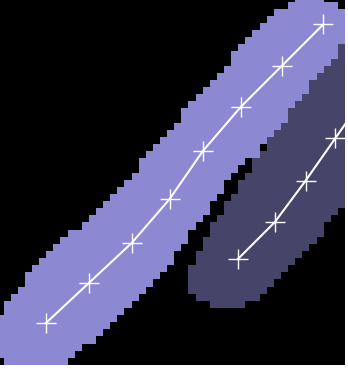
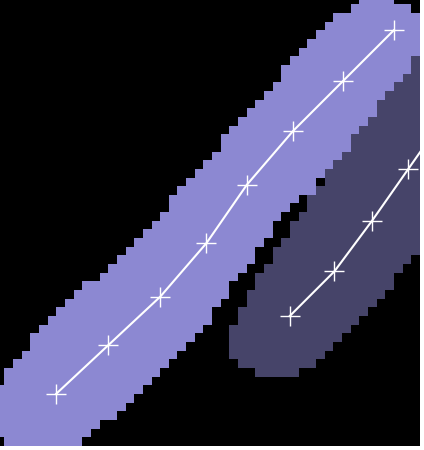
also save as pdf; update figures; adapt to new extraction method

diff --git a/plots/position_extraction_algorithm.py b/plots/position_extraction_algorithm.py
@@ -83,13 +83,18 @@ if __name__ == "__main__":
 
     fig.tight_layout()
     fig.savefig(
+        "docs/source/_static/fitting-methods/algorithm/mask-zoom.pdf",
+        bbox_inches="tight",
+        pad_inches=0,
+    )
+    fig.savefig(
         "docs/source/_static/fitting-methods/algorithm/mask-zoom.png",
         bbox_inches="tight",
         pad_inches=0,
     )
     plt.close(fig)
 
-    pos, _, _ = crm.extract_positions(mask)
+    pos = crm.extract_positions(mask)[0]
     submask = np.copy(mask[xmin:xmax, ymin:ymax, :])
 
     fig, ax = plt.subplots()
@@ -116,6 +121,11 @@ if __name__ == "__main__":
         ax.plot(q1 + dx / 2, q2 + dy / 2, color="white", marker="+", markersize=15)
 
     fig.tight_layout()
+    fig.savefig(
+        "docs/source/_static/fitting-methods/algorithm/interpolate-positions.pdf",
+        bbox_inches="tight",
+        pad_inches=0,
+    )
     fig.savefig(
         "docs/source/_static/fitting-methods/algorithm/interpolate-positions.png",
         bbox_inches="tight",
